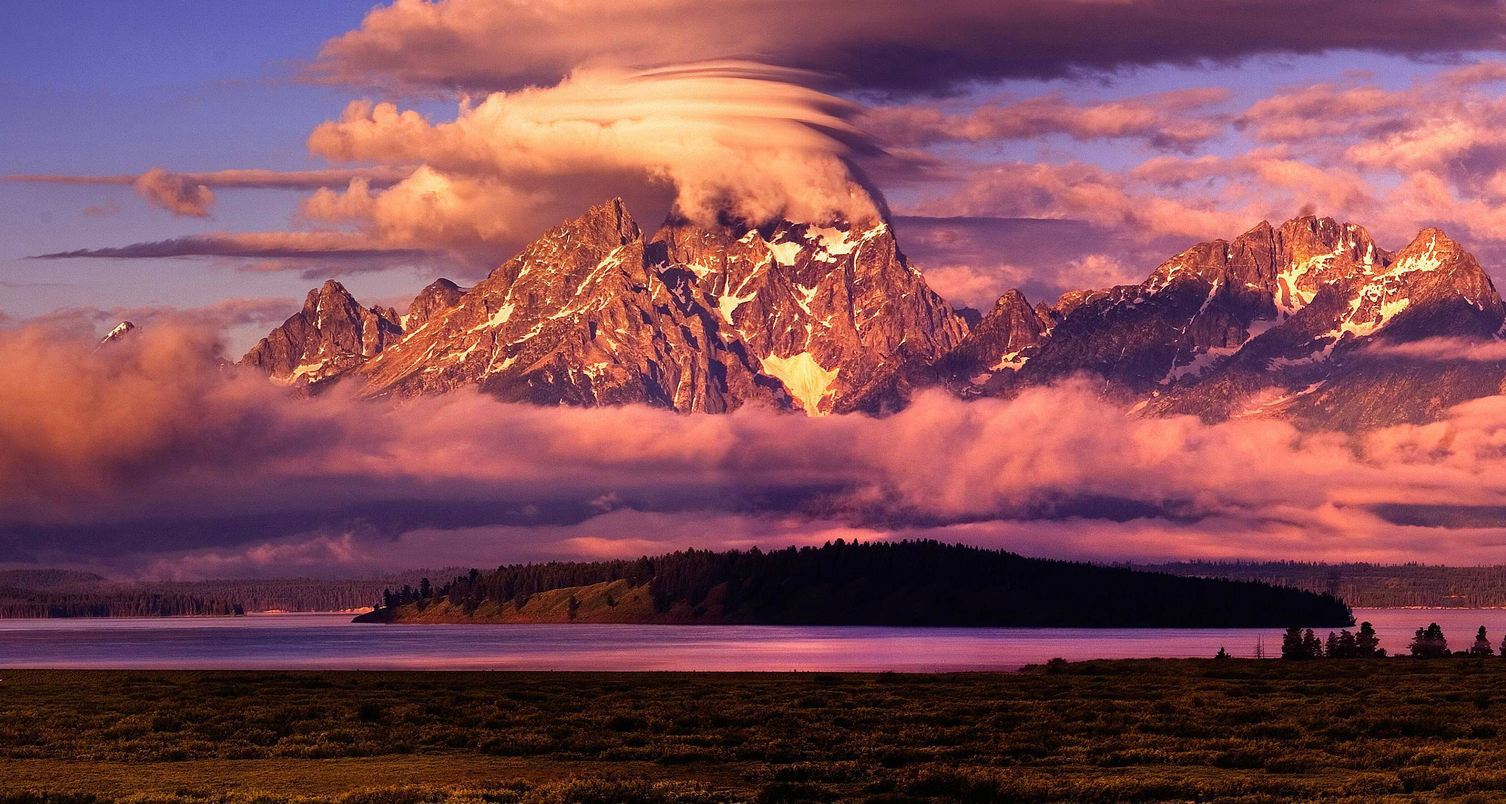
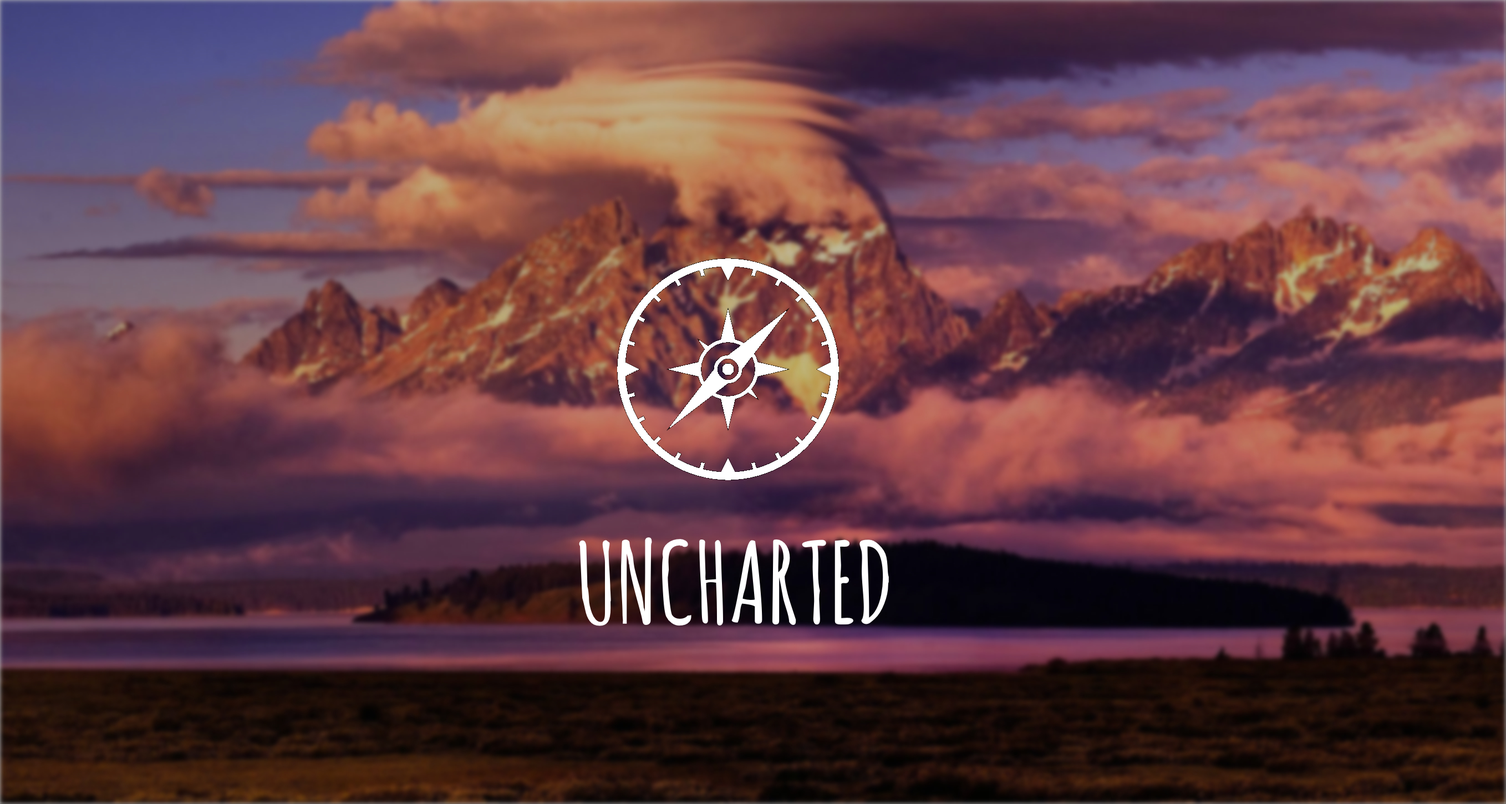
updated title screen and blurbs

diff --git a/main.html b/main.html
@@ -1,3 +1,4 @@
+<!DOCTYPE html>
 <html>
 
 <head>
@@ -6,7 +7,9 @@
   <link rel="stylesheet" href="css/grid.css"/>
   <link href='http://fonts.googleapis.com/css?family=Open+Sans:300' rel='stylesheet' type='text/css'>
   <link href='http://fonts.googleapis.com/css?family=Amatic+SC' rel='stylesheet' type='text/css'>
+<title>Uncharted</title> 
 </head>
+  
 
 <body>
   <div id="container">
@@ -14,51 +17,58 @@
 
       <!-- Header Section -->
       <div id="header" class="module clearfix section">
-        <div class="col-1-3 nav">
-          <div class="col-1-3">
-            <a href="#team">Team</a>
+        <div class="col-1-1 nav">
+          <div class = "col-2-3">
+            <div class="col-1-4">
+              <a href="#intro">Intro</a>
+            </div>
+            <div class="col-1-4">
+              <a href="#team">Team</a>
+            </div>
+            <div class="col-1-4">
+              <a href="#concept">Concept Video</a>
+            </div>
           </div>
-          <div class="col-1-3">
-            <a href="#heuristic">Heuristic</a>
-          </div>
-          <div class="col-1-3">
-            <a href="#concept">Concept</a>
-          </div>
-        </div>
-        <div id="title" class="col-1-3">Uncharted</div>
-        <div class="col-1-3 nav">
-          <div class="col-1-3">
-            <a href="#hi-fi">Hi-fi</a>
-          </div>
-          <div class="col-1-3">
-            <a href="#lo-fi">Lo-fi<a>
-          </div>
-          <div class="col-1-3">
-            <a href="#med-fi">Medium-fi</a>
+          <div class="col-1-3" >
+            <div >
+              <a href = "#hi-fi" class = "final-product">Final Product</a>
+            </div>
           </div>
         </div>
       </div>
 
       <!-- Main Image Section -->
       <div class="module section">
-        <img src="images/earthporn1.jpg" id="main-image"/>
+        <img src="images/earthporn1.jpg" alt="images/earthporn1.jpg" id="main-image"/>
       </div>
+      <div class="vertical-line"></div>
 
       <!-- TODO -->
       <!-- Intro/Value Prop Section // Might just be part of the image section thing later -->
-      <div id="assignments" class="module section">
-        <a name = "valueprop"></a>
+      <div id="assignments" class="module section clearfix">
+        <a name = "intro"></a>
         <div class="section-header">Introduction</div>
-      </div>
+        <div class ="col-1-1" id = "value-prop-text">
+          <span>
+            Uncharted is a fun and useful tool to help 20-somethings jumpstart their travel plans.
+          </span>
+        </div>
+        <div class ="col-1-1" id = "description-text">
+          <span>
+            Travel planning can be an overwhelming and tedious process. We set out to build a tool that makes the planning process as fun and exciting as exploring new places in person. In our Contextual Inquiry, we found that most college-aged travelers do not use or rely on any guide books or websites. We designed Uncharted to help students in the initial planning phase, choosing a destination and jumpstarting the logistics. Uncharted allows you to browse through snapshots of destinations around the world, and view details about things to do and where to stay in these locations. Enjoy!
+          </span>
+        </div>
 
+      </div>
+      <div class="vertical-line"></div>
       <!-- Team Section -->
-      <div id="team" class="module section" name="team">
+      <div id="team" class="module section">
         <div class="section-header">Team</div>
         <div class="clearfix">
           <div class="col-1-4">
             <div class="team-desc">
               <div>
-                <img src="images/chocolate_chip_cookie.jpg" class="team-pic">
+                <img src="images/kate.jpg" class="team-pic" alt="images/earthporn1.jpg">
               </div>
               <div class="name">Kate Wendell</div>
               <div>Here's some blurb stuff about the role I had blah blah</div>
@@ -67,7 +77,7 @@
           <div class="col-1-4">
             <div class="team-desc">
               <div>
-                <img src="images/snickerdoodle-cookie.png" class="team-pic">
+                <img src="images/matt.jpg" class="team-pic" alt="images/earthporn1.jpg">
               </div>
               <div class="name">Matt Taylor</div>
               <div>Here's some blurb stuff about the role I had blah blah</div>
@@ -76,7 +86,7 @@
           <div class="col-1-4">
             <div class="team-desc">
               <div>
-                <img src="images/blondie_cookie.jpg" class="team-pic">
+                <img src="images/blondie_cookie.jpg" class="team-pic" alt="images/earthporn1.jpg">
               </div>
               <div class="name">Moustafa Asfour</div>
               <div>Here's some blurb stuff about the role I had blah blah</div>
@@ -85,7 +95,7 @@
           <div class="col-1-4">
             <div class="team-desc">
               <div>
-                <img src="images/double_chocolate_cookie.jpg" class="team-pic">
+                <img src="images/raissa.jpg" class="team-pic" alt="images/earthporn1.jpg">
               </div>
               <div class="name">Raissa Largman</div>
               <div>
@@ -95,21 +105,44 @@
             </div>
           </div>
         </div>
+        <div class="vertical-line"></div>
       </div>
+
+      <!-- Poster Section -->
+      <div id="poster" class="module section clearfix">
+        <a name = "poster"></a>
+        <div class="section-header">(#7) Poster</div>
+        <div class="clearfix">
+          <div class="col-1-1">
+          </div>
+          <div class="col-1-2" style = "margin-left:25%">
+              <div class="assignment-first">
+                  <a href="#poster">
+                      <div class="assignment" id="pic25">
+                          <span class="assignment-text">Poster</span>
+                      </div>
+                  </a>
+              </div>
+          </div>
+        </div>
+        <div class="vertical-line"></div>
+      </div>
+
 
       <!-- Hi-fi Prototype Section -->
       <div id="hi-fi-prototype" class="module section clearfix">
         <a name = "hi-fi"></a>
-        <div class="section-header">(#5) Hi-fi Prototype</div>
+        <div class="section-header">(#6) Hi-fi Prototype</div>
         <div class="clearfix">
           <div class="col-1-1">
               <div class="icon-button">
                   <div class="icon-button-image-wrapper">
-                    <img class="icon-button-image" src="images/icons/conception_icon/conception.png" />
+                    <a href = "#hi-fi">
+                      <img class="icon-button-image" src="images/icons/diamond_icon/diamond_icon.png" alt="images/earthporn1.jpg">
+                    </a>
                   </div>
                   <div class="icon-button-text">
-                      Click on the button above to see our hi-fi prototype. We can say some other things if
-                      we want. I'm just trying to write more nonsense up in here.
+                      Click on the button above to see our High-Fidelity Final Prototype.
                   </div>
               </div>
           </div>
@@ -155,6 +188,26 @@
         <div class="vertical-line"></div>
       </div>
 
+      <!-- Heuristic Section -->
+      <div id="heuristic" class="module section clearfix">
+        <a name = "heuristic"></a>
+        <div class="section-header">(#5) Heuristic Evaluation</div>
+        <div class="clearfix">
+          <div class="col-1-1">
+          </div>
+          <div class="col-1-2" style = "margin-left:25%">
+              <div class="assignment-first">
+                  <a href="documents/UnchartedConceptVideo.pdf">
+                      <div class="assignment" id="pic24">
+                          <span class="assignment-text">Evaluation</span>
+                      </div>
+                  </a>
+              </div>
+          </div>
+        </div>
+        <div class="vertical-line"></div>
+      </div>
+
       <!-- Medium-fi Prototype Section -->
       <div id="med-fi-prototype" class="module section clearfix">
         <a name = "med-fi"></a>
@@ -164,12 +217,11 @@
               <div class="icon-button">
                   <div class="icon-button-image-wrapper">
                     <a href = "med-fiprototype/prototype.html">
-                      <img class="icon-button-image" src="images/icons/conception_icon/conception.png" />
+                      <img class="icon-button-image" src="images/icons/crystal_icon/crystal_icon.png" alt="images/earthporn1.jpg">
                     </a>
                   </div>
                   <div class="icon-button-text">
-                      Click on the button above to see our hi-fi prototype. We can say some other things if
-                      we want. I'm just trying to write more nonsense up in here.
+                      Click on the button above to see our Medium-Fidelity Prototype. This will give a general description of what our final product will look like.
                   </div>
               </div>
           </div>
@@ -224,12 +276,11 @@
               <div class="icon-button">
                   <div class="icon-button-image-wrapper">
                     <a href = "lo-fiprototype/lo-fiproto.jpg">
-                      <img class="icon-button-image" src="images/icons/conception_icon/conception.png" />
+                      <img class="icon-button-image" src="images/icons/rock_icon/rock_icon.png" alt="images/earthporn1.jpg">
                     </a>
                   </div>
                   <div class="icon-button-text">
-                      Click on the button above to see our hi-fi prototype. We can say some other things if
-                      we want. I'm just trying to write more nonsense up in here.
+                    Click on the button above to see our Low-Fidelity Prototype. This will give a general description of how we want to accomplish individual tasks
                   </div>
               </div>
           </div>
@@ -281,10 +332,16 @@
         <div class="section-header">(#2) Concept Video and Sketches</div>
         <div class="clearfix">
           <div class="col-1-1">
-<!--             <iframe width="560" height="315" src="//www.youtube.com/embed/-uS8jAZApJ4" frameborder="0" allowfullscreen></iframe> -->
-
-        <iframe width="640" height="360" src="documents/UnchartedConceptVideo.mp4" frameborder="0" allowfullscreen controls>
-        </iframe>
+              <div class="icon-button">
+                  <div class="icon-button-image-wrapper">
+                    <a href = "http://player.vimeo.com/video/109165485">
+                      <img class="icon-button-image" src="images/icons/video_icon/video_icon.png" alt="images/earthporn1.jpg">
+                    </a>
+                  </div>
+                  <div class="icon-button-text">
+                      Click on the button above to see our Concept Video. This video will show what we want Uncharted to accomplish.
+                  </div>
+              </div>
           </div>
           <div class="col-1-2" style = "margin-left:25%">
               <div class="assignment-first">
@@ -304,17 +361,6 @@
         <a name = "contextual"></a>
         <div class="section-header">(#1) Contextual Inquiry and Task Analysis</div>
         <div class="clearfix">
-          <div class="col-1-1">
-              <div class="icon-button">
-                  <div class="icon-button-image-wrapper">
-                    <img class="icon-button-image" src="images/icons/conception_icon/conception.png" />
-                  </div>
-                  <div class="icon-button-text">
-                      Click on the button above to see our hi-fi prototype. We can say some other things if
-                      we want. I'm just trying to write more nonsense up in here.
-                  </div>
-              </div>
-          </div>
           <div class="col-1-2">
               <div class="assignment-first">
                   <a href="documents/UnchartedContextualInquiry.pdf">
@@ -356,6 +402,11 @@
         </div>
         <div class="vertical-line"></div>
       </div>
+
+
+
+
+
 
 
 
